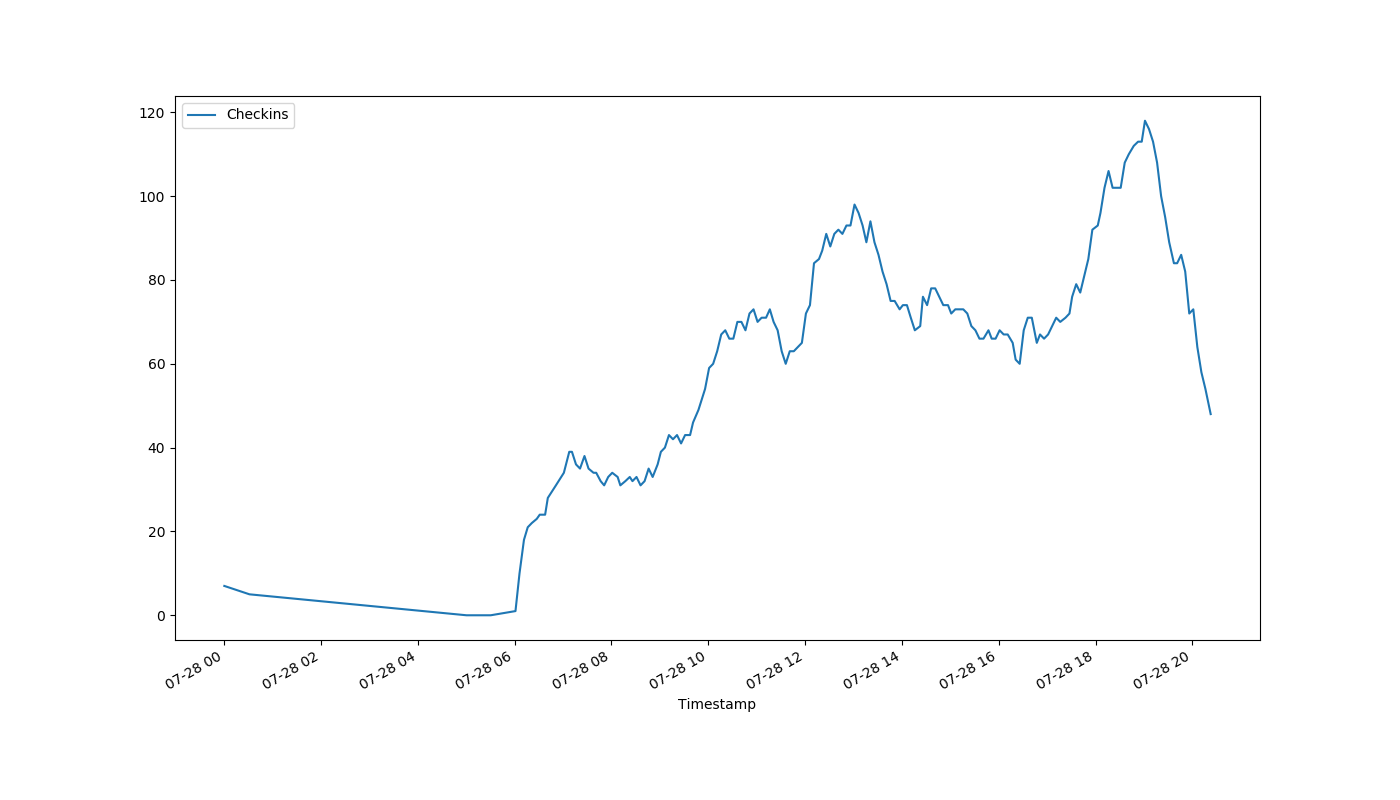
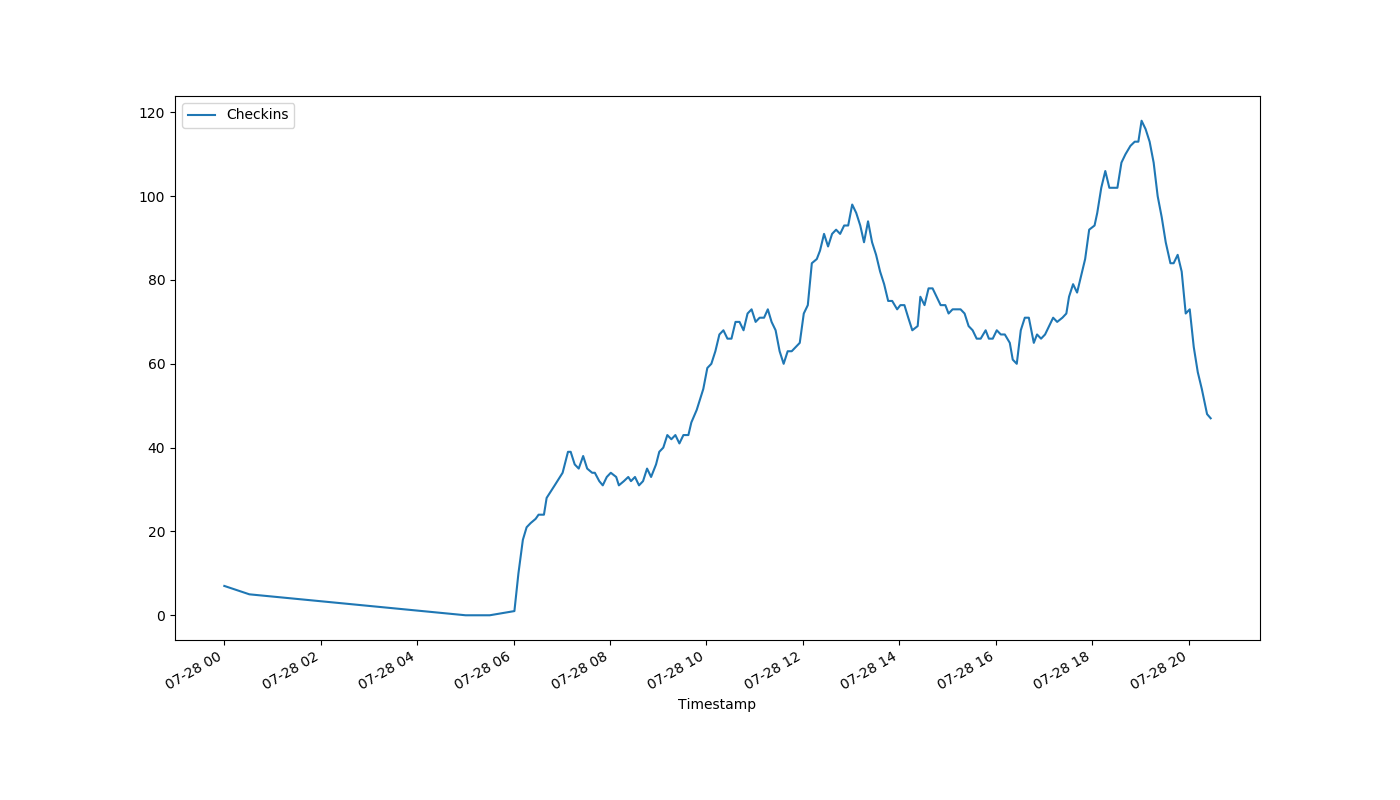
auto-Jul-28-20:29:25

diff --git a/index.html b/index.html
@@ -1,1 +1,1 @@
-<!DOCTYPE html><html><head><meta http-equiv="refresh" content="30"><link rel='stylesheet' href='holmcurrent.css'></head><body><p id='count'>48</p><div id='graph-wrap'><img id='graph' src='holmgraph-Jul-28.png'></div><p id='updated'>Last updated 20:23:01 / 20:22:44</p></body></html>
+<!DOCTYPE html><html><head><meta http-equiv="refresh" content="30"><link rel='stylesheet' href='holmcurrent.css'></head><body><p id='count'>47</p><div id='graph-wrap'><img id='graph' src='holmgraph-Jul-28.png'></div><p id='updated'>Last updated 20:28:01 / 20:27:15</p></body></html>
